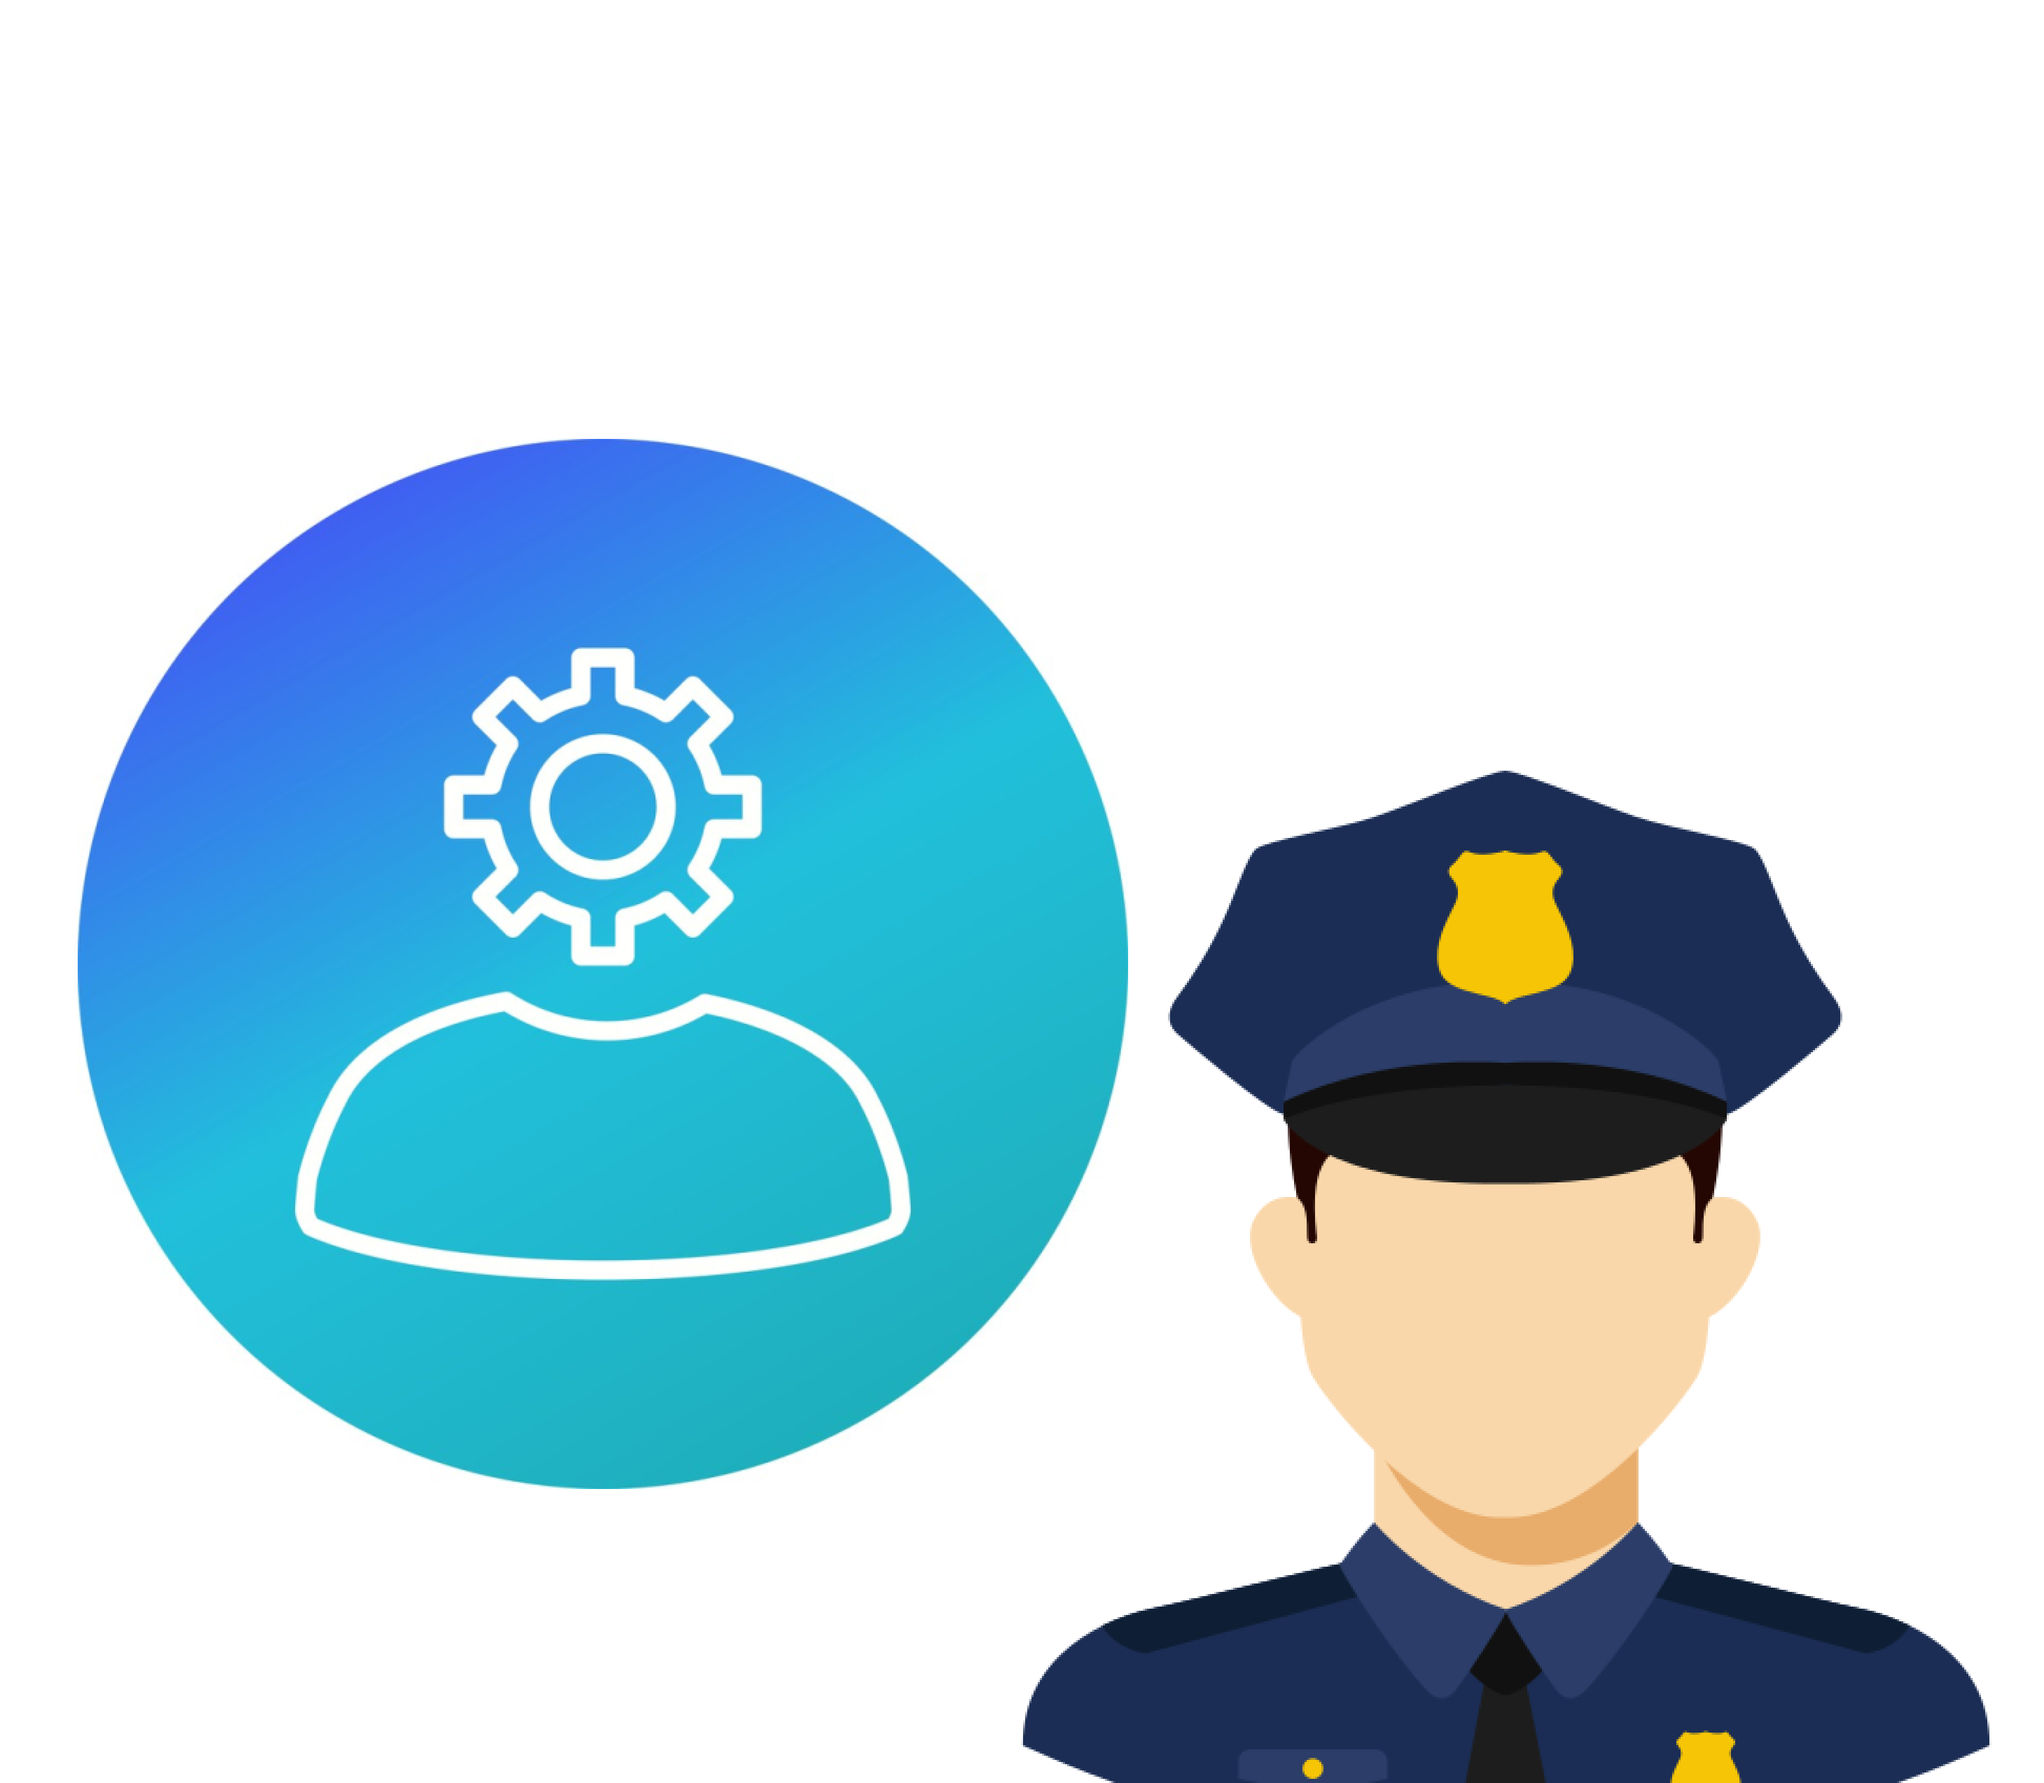
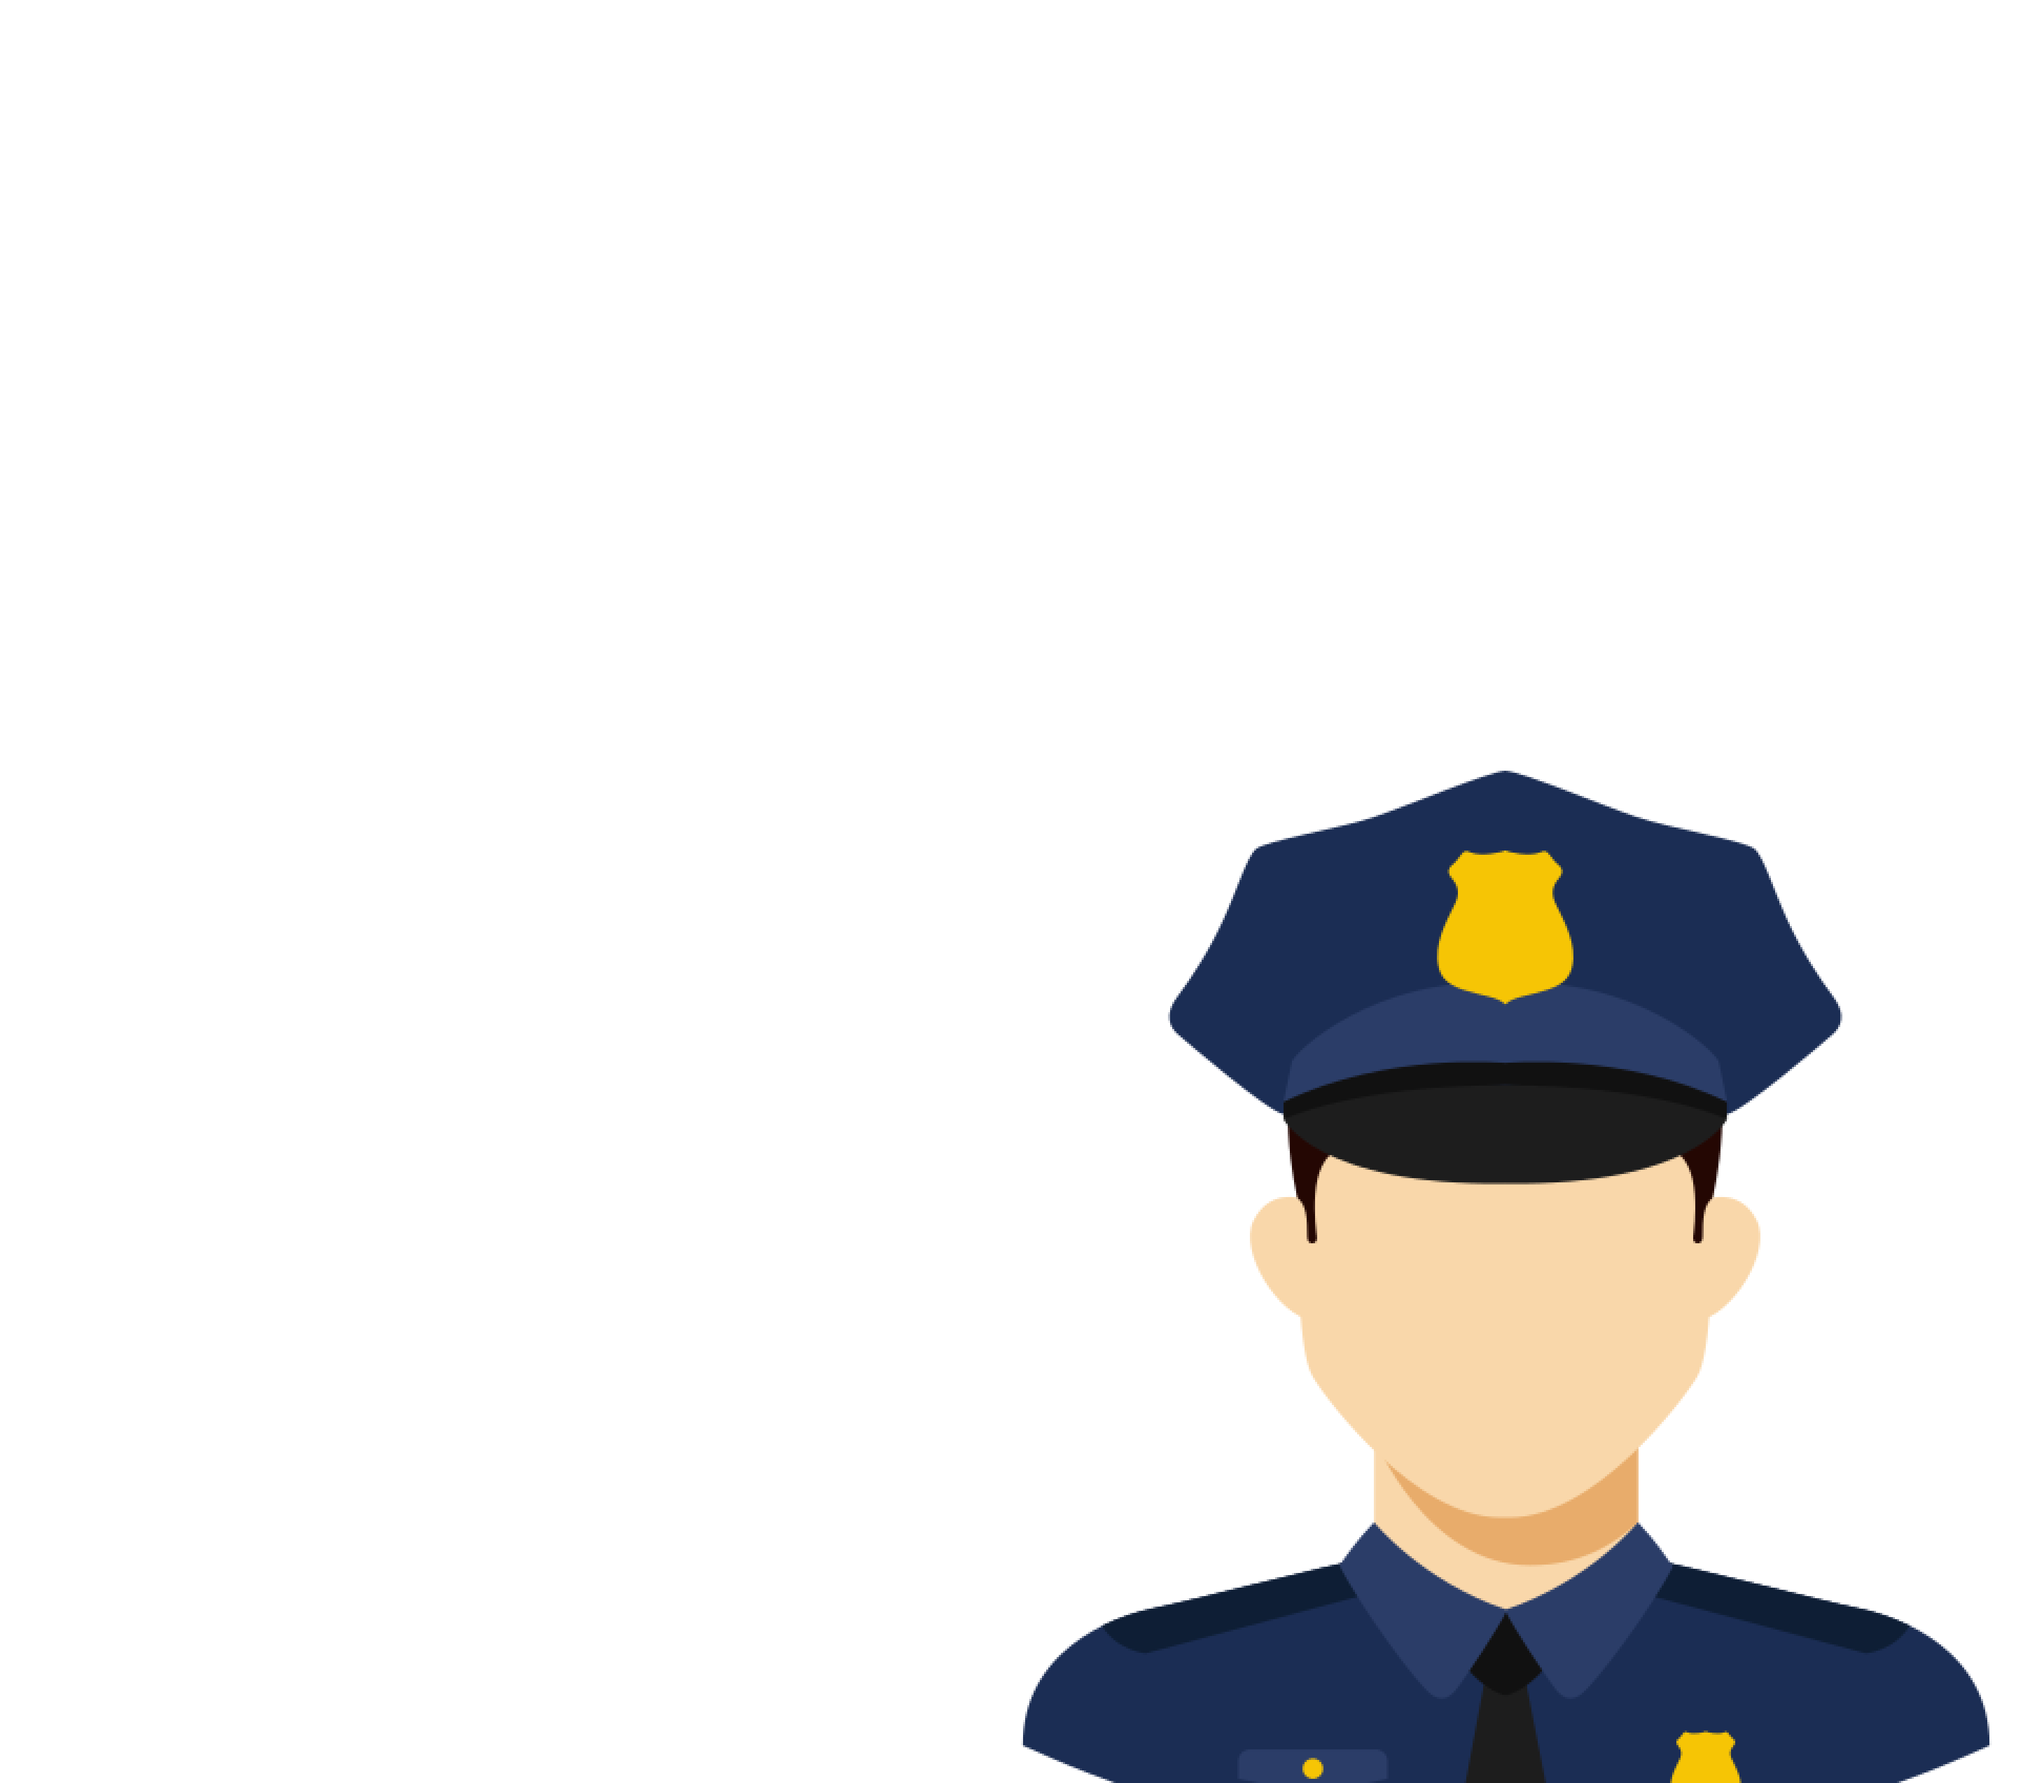
fixed background

Changed region(s): [[0.0311, 0.2185, 0.5596, 0.8428]]

diff --git a/lib/screens/auth/login_screen.dart b/lib/screens/auth/login_screen.dart
@@ -24,7 +24,17 @@ class _LoginScreenState extends State<LoginScreen> {
       body: Row(
         mainAxisAlignment: MainAxisAlignment.spaceBetween,
         children: [
-          Image.asset('assets/images/admin.png'),
+          Stack(children: [
+            Padding(
+              padding: const EdgeInsets.only(top: 250, left: 50),
+              child: Image.asset(
+                'assets/images/1.png',
+                height: 400,
+                width: 400,
+              ),
+            ),
+            Image.asset('assets/images/admin.png')
+          ]),
           SizedBox(
             width: 500,
             height: double.infinity,
@@ -34,10 +44,14 @@ class _LoginScreenState extends State<LoginScreen> {
               children: [
                 Padding(
                   padding: const EdgeInsets.only(left: 50),
-                  child: Image.asset(
-                    'assets/images/logo.png',
-                    height: 250,
-                    width: 250,
+                  child: Stack(
+                    children: [
+                      Image.asset(
+                        'assets/images/logo.png',
+                        height: 250,
+                        width: 250,
+                      ),
+                    ],
                   ),
                 ),
                 const SizedBox(

diff --git a/lib/main.dart b/lib/main.dart
@@ -1,3 +1,4 @@
+import 'package:enforcenow_admin/screens/auth/login_screen.dart';
 import 'package:enforcenow_admin/screens/home_screen.dart';
 import 'package:firebase_core/firebase_core.dart';
 import 'package:flutter/material.dart';
@@ -20,8 +21,8 @@ class MyApp extends StatelessWidget {
 
   @override
   Widget build(BuildContext context) {
-    return MaterialApp(
-      home: HomeScreen(),
+    return const MaterialApp(
+      home: LoginScreen(),
     );
   }
 }
